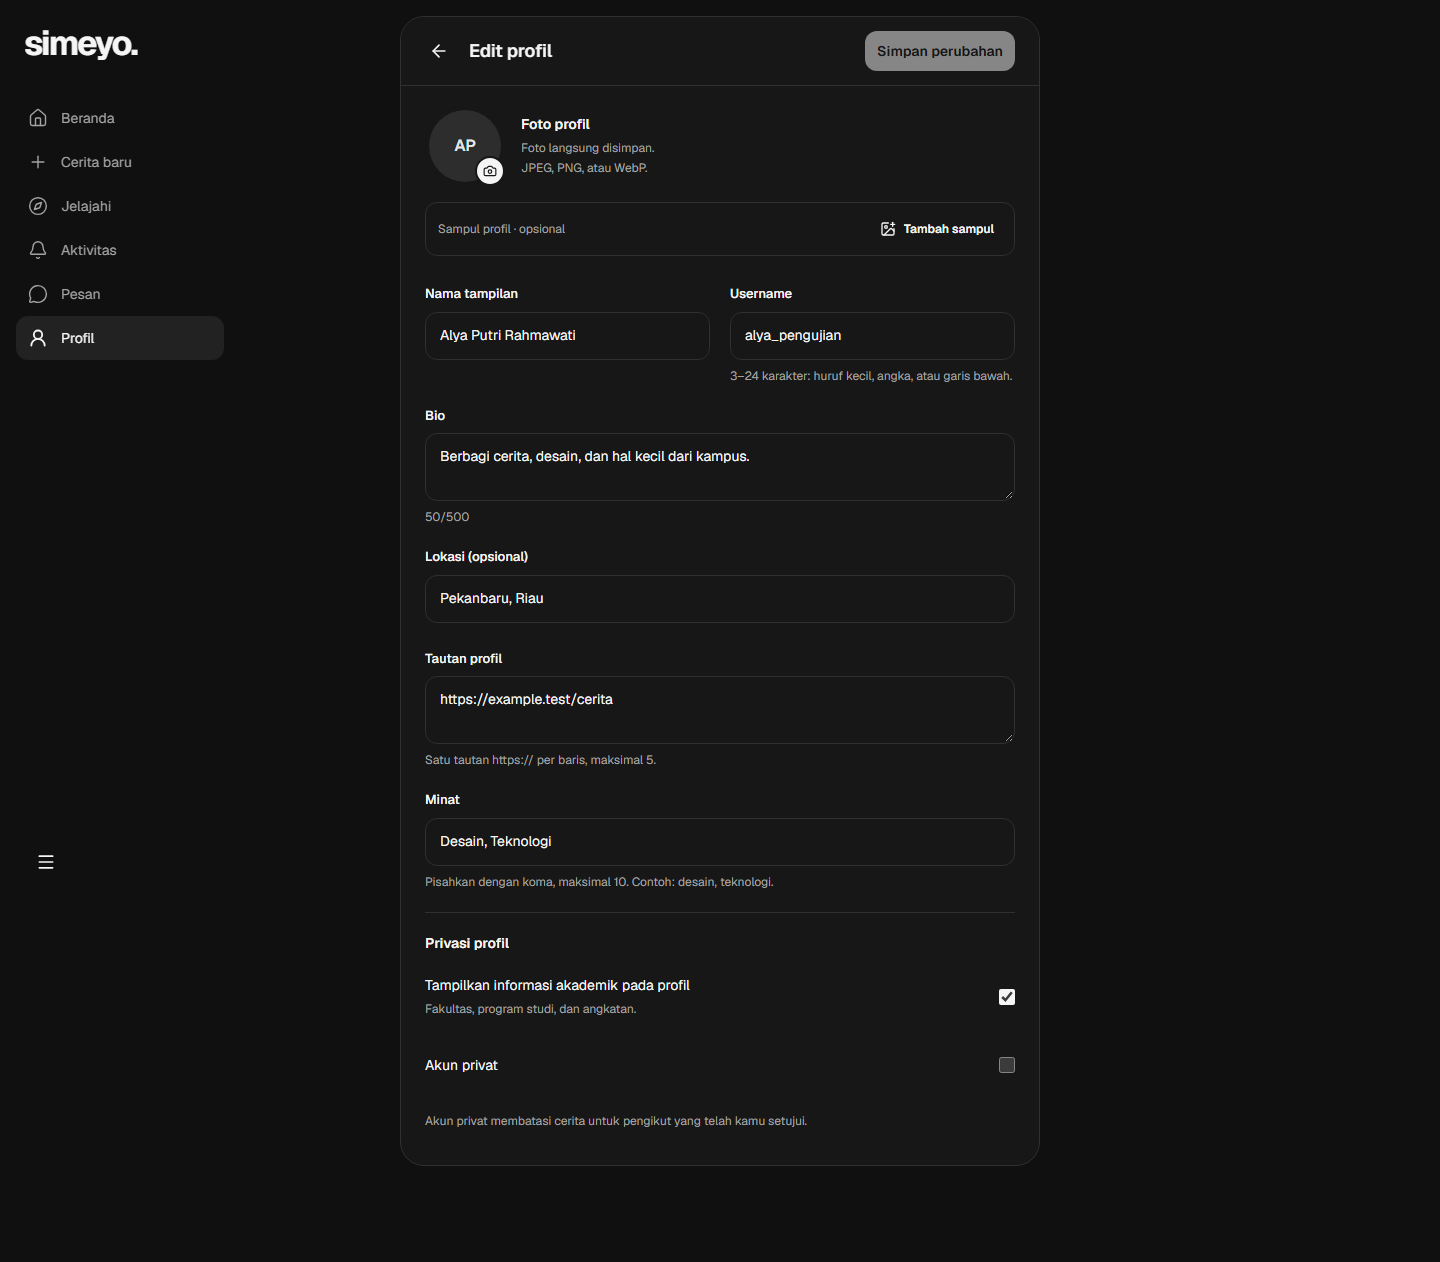
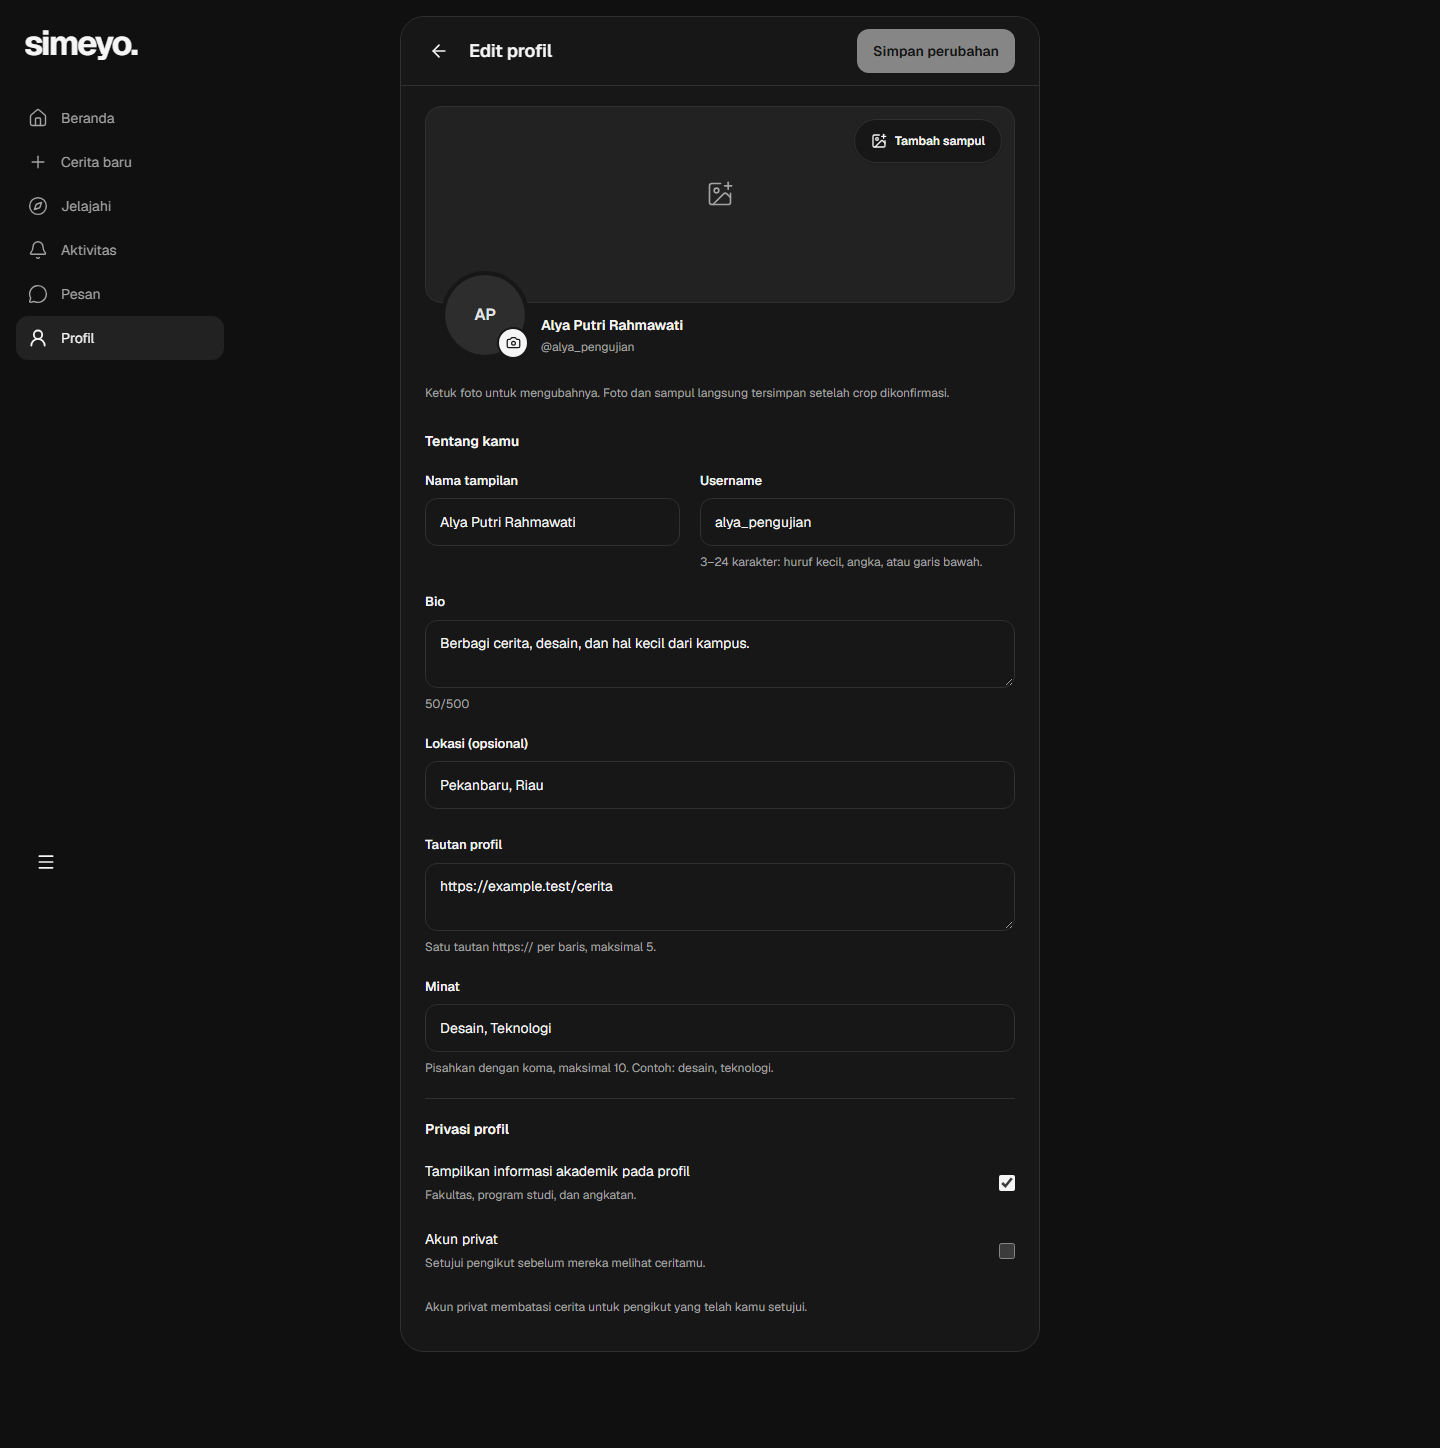
Record verified daily-use deployment and mobile profile evidence

diff --git a/docs/testing/daily-use-2026-10-17.md b/docs/testing/daily-use-2026-10-17.md
@@ -1,6 +1,6 @@
 # Daily use and mobile profile improvements, 2026-10-17
 
-Implementation and acceptance in progress. Application source and deployment results will be recorded after verification.
+Application source `52c533e` is deployed on API/web/worker/Reverb as `daily-52c533e`; gateway was recreated. All 47 public-assets fixture browser cases passed (3.1 minutes), with fresh mobile light/dark editor, crop and banner screenshots inspected. Exact final CI outcomes are recorded below.
 
 ## Scope
 
@@ -38,3 +38,16 @@ The first full production-build fixture run caught a changed accessible checkbox
 Initial complete local production-build result: 45 passed, two failed (4.5 minutes). Besides the checkbox label, the gallery title contained an encoding regression introduced while editing PostCard; text encoding is corrected and the full suite will be rerun. No failed result is counted as a pass.
 
 Second local production-build regression: 46 passed, one failed (3.4 minutes). The reset test navigated before the mutation finished; it now waits for confirmation to close and exercises actual SPA navigation. Inactive home feed caches are also removed on feedback/reset so changing tabs or returning cannot retain old preferences. The strengthened cross-tab hide/reset case passed locally (28.3 seconds including development startup). Both initial real-API browser suites on 028eb39 passed their communications/media checks but failed a stale private-profile heading selector in social.spec.ts; the selector is updated to the actual Akun ini privat heading and the suites will rerun.
+
+
+## Final deployment and operational evidence
+
+- Final-source web lint/type checking/production build passed. Five focused production-build cases passed (24.0 seconds), including cached cross-tab hide/reset, motion persistence, mobile banner upload/reload/removal, edit failure preservation/focus and gallery navigation.
+- All **47 public-assets fixture UI cases passed (3.1 minutes)** on the deployed build. Fictional account/API fixtures verify public web assets and interactions; this is separate from live production-user writes.
+- API/web/worker/Reverb image build exit code was zero. Only pending migration `2026_10_17_100000_create_feed_preferences` was applied (11.28 ms). Previous migration formatting changed only; it was already recorded and did not run again. No seeding/reset or production owner impersonation occurred.
+- HTTPS root/login/manifest/API health returned 200, anonymous me 401, hidden env/PHP paths 404, CSRF cookie 204, unprotected mutations 419. TLS validation and actual private WebSocket handshake passed. Worker probe passed, zero ready/failed jobs and recent_5xx=0.
+- Pre-release actual backup `20261016T193629Z-be1f438d` and post-release systemd backup `20261016T194711Z-6dfb9c45` passed PostgreSQL/media inventory validation. Each manifest's three file hashes were recomputed and matched; directories were mode 0700 and database/media/environment files private. Rollback environment `env-pre-daily-52c533e` is mode 0600.
+- All three maintenance helper tests passed on Windows and Linux server using mocks. Systemd template validation passed with only unrelated pre-existing xfs CPUAccounting warnings. Actual `simeyo-backup.service` and `simeyo-monitor.service` returned Result=success / ExecMainStatus=0. Monitor state was healthy with no failures. Both timers are enabled/active: daily 19:30 UTC plus up to five minutes jitter (02:30 WIB), monitor every five minutes. A named `self-test` alarm unit successfully wrote to the local system journal; that event is a synthetic alarm, not a production service outage.
+- Backups and alarms are **server-only per owner request**. No remote storage or external notification destination exists; no destructive outage/restore test was run on production.
+
+Final-source CI: privacy/messaging [38957077506](https://github.com/mhmdhabibrafi/simeyo/actions/runs/38957077506) passed: communications (14.3 seconds) and two social cases (12.9 seconds). This includes actual API/PostgreSQL/Reverb, typing visibility, global unread/read clearing, follow/private approval, post actions and bilateral block. Final-source standard [38957075776](https://github.com/mhmdhabibrafi/simeyo/actions/runs/38957075776) passed all four jobs: PostgreSQL API, web, mobile and production-stack. PostgreSQL passed 94 tests / 694 assertions; isolated recovery restored 15 migrations, profile/media bytes and retained-key encrypted token, and rejected the wrong key. The production-shaped isolated workload completed 960 requests with zero failures in 119.94 seconds, endpoint p95 56-133 ms; this is not a public-server capacity claim. Final settings/media [38957082981](https://github.com/mhmdhabibrafi/simeyo/actions/runs/38957082981) passed accessibility (9.0 seconds), actual avatar/banner upload/reload/removal (6.8 seconds), and two social cases (19.4 seconds). The complete final public-assets run passed all 47 cases; earlier failed/cancelled runs remain recorded above, not counted as green workflows.

diff --git a/docs/operations/mediasi-server.md b/docs/operations/mediasi-server.md
@@ -1,5 +1,7 @@
 # Mediasi server installation — 2026-10-15
 
+Daily-use/mobile-profile update (2026-10-17): application source 52c533e is deployed as daily-52c533e on API/web/worker/Reverb, gateway recreated. Added persisted feed hide/reduced-author ranking/reset, network-free URL cards, follower search/private-account feedback, expiring typing/global unread badges and reduced-motion controls. Redesigned mobile profile/banner editor with consistent 3:1 preview, independent crop/save and confirmed owned photo removal. API 94 tests / 694 assertions; seven contracts; five final focused browser cases and all 47 public-assets cases (3.1 minutes) passed. Fresh screenshots inspected. Actual private backup/hash verification and backup/monitor systemd service runs passed; daily backup and five-minute monitor timers enabled. TLS/health/CSRF/WSS and worker probe passed, zero ready/failed jobs and recent_5xx=0. One additive feed_preferences migration, no reset/seed. Real accounts/physical devices, off-host copies and external alarm delivery remain unverified/unconfigured. Final-source standard CI 38957075776 passed all four jobs; real-API browser 38957077506 and 38957082981 both passed. Isolated production-shaped load: 960 requests, zero failures, 119.94 seconds, endpoint p95 56-133 ms. Exact evidence: docs/testing/daily-use-2026-10-17.md.
+
 Profile/post/DM follow-up (2026-10-16): application source eaa424b is deployed on API/web/worker/Reverb as everyday-eaa424b; gateway recreated. Added photo crop/pan/zoom with explicit save, safer post edit/delete flows, private DM search/block/selected-message reports and moderator review, plus profile-tab/history scroll restoration. SQLite and PostgreSQL API: 89 tests / 635 assertions; 2 crop unit and 6 contract tests passed. All 42 public-assets UI cases passed (4.4 minutes); fresh screenshots inspected. Exact-source standard CI 38929169136 and real-API browser runs 38929229522/38929236306 passed. The additive conversation_reports migration was applied after restricted database/media backups; no reset/seed. TLS/health/CSRF/WSS and queue probe passed, zero ready/failed jobs. Two real campus accounts, inbox delivery and physical-device acceptance remain explicitly deferred. See docs/testing/profile-post-dm-2026-10-16.md.
 
 Discovery/settings follow-up (2026-10-16): source 5f4e084 is deployed on API/web/worker/Reverb as discovery-5f4e084, with gateway recreated. Fixed rejected empty DM picker queries and followed-user omission using explicit messaging discovery; added recipient pagination/retry and literal underscore searches. Explore now uses one retained search field, compact filters and actionable empty results; account/campus rows wrap identity cleanly. Browser title is Simeyo without the slogan/em dash. API: 86 tests / 590 assertions; contracts: 5 passed; final local focused UI: 6 passed; all 36 public-assets UI cases passed (2.7 minutes). Exact-source standard CI 38922483284 passed all four jobs, and real-API/PostgreSQL communications run 38922500179 passed its extended case (9.7 seconds). Server TLS/security/health/WSS and queue probe passed, zero ready/failed jobs. Private backup inventory checked; data/keys/media retained, no migration/seed or production account mutations. Full evidence: docs/testing/discovery-2026-10-16.md.

diff --git a/PROGRESS.md b/PROGRESS.md
@@ -1,6 +1,6 @@
 # Simeyo implementation progress
 
-Daily-use/mobile-profile follow-up is in progress (2026-10-17): persisted feed feedback, safe address previews, scoped relationship search, ephemeral typing/global unread totals, motion controls, redesigned mobile photo/banner editing, and server-only backup/monitor automation. API 94 tests / 694 assertions and seven contracts passed. Final browser/deployment checks pending; see docs/testing/daily-use-2026-10-17.md.
+Daily-use/mobile-profile update (2026-10-17): application source 52c533e is deployed as daily-52c533e on API/web/worker/Reverb, gateway recreated. Added persisted feed hide/reduced-author ranking/reset, network-free URL cards, follower search/private-account feedback, expiring typing/global unread badges and reduced-motion controls. Redesigned mobile profile/banner editor with consistent 3:1 preview, independent crop/save and confirmed owned photo removal. API 94 tests / 694 assertions; seven contracts; five final focused browser cases and all 47 public-assets cases (3.1 minutes) passed. Fresh screenshots inspected. Actual private backup/hash verification and backup/monitor systemd service runs passed; daily backup and five-minute monitor timers enabled. TLS/health/CSRF/WSS and worker probe passed, zero ready/failed jobs and recent_5xx=0. One additive feed_preferences migration, no reset/seed. Real accounts/physical devices, off-host copies and external alarm delivery remain unverified/unconfigured. Final-source standard CI 38957075776 passed all four jobs; real-API browser 38957077506 and 38957082981 both passed. Isolated production-shaped load: 960 requests, zero failures, 119.94 seconds, endpoint p95 56-133 ms. Exact evidence: docs/testing/daily-use-2026-10-17.md.
 
 Profile/post/DM follow-up (2026-10-16): application source eaa424b is deployed on API/web/worker/Reverb as everyday-eaa424b; gateway recreated. Added photo crop/pan/zoom with explicit save, safer post edit/delete flows, private DM search/block/selected-message reports and moderator review, plus profile-tab/history scroll restoration. SQLite and PostgreSQL API: 89 tests / 635 assertions; 2 crop unit and 6 contract tests passed. All 42 public-assets UI cases passed (4.4 minutes); fresh screenshots inspected. Exact-source standard CI 38929169136 and real-API browser runs 38929229522/38929236306 passed. The additive conversation_reports migration was applied after restricted database/media backups; no reset/seed. TLS/health/CSRF/WSS and queue probe passed, zero ready/failed jobs. Two real campus accounts, inbox delivery and physical-device acceptance remain explicitly deferred. See docs/testing/profile-post-dm-2026-10-16.md.
 
